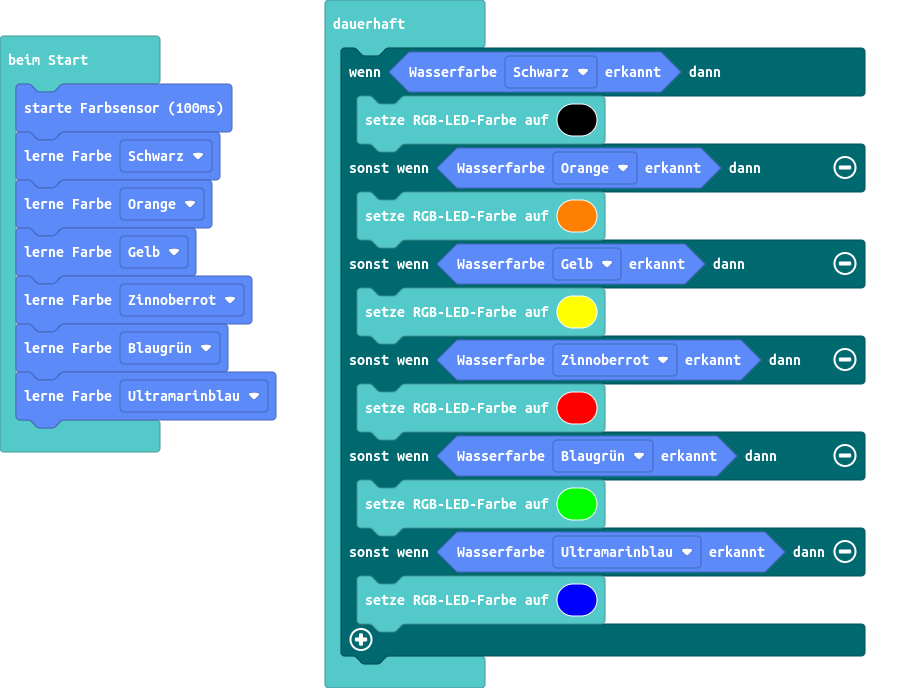
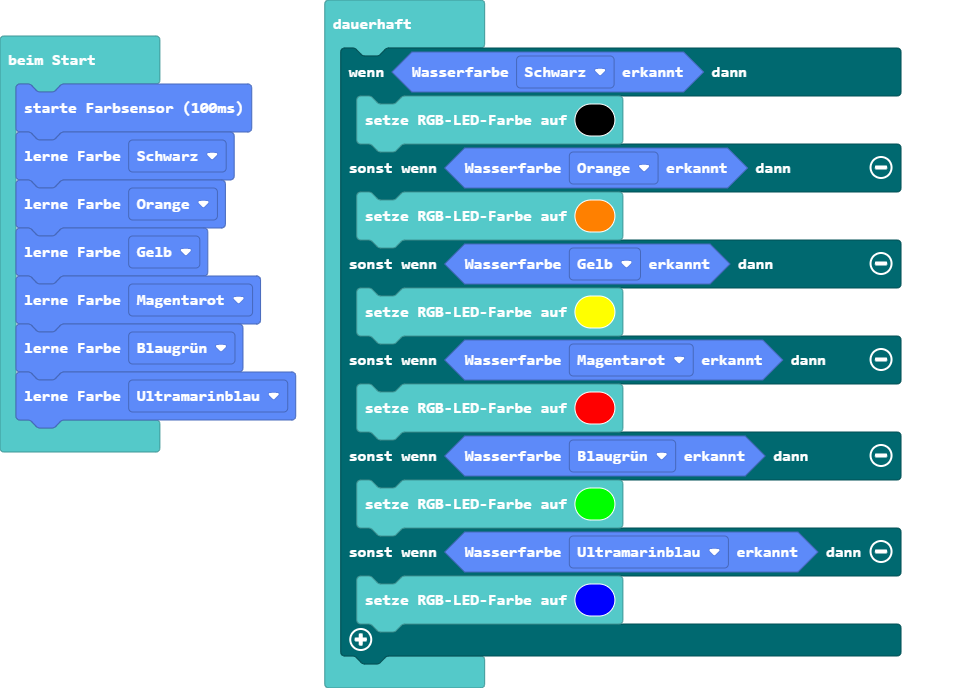
Aktualisiere main.blocks, main.ts

diff --git a/main.ts b/main.ts
@@ -2,7 +2,7 @@ TCS34725.start()
 TCS34725.LernFarbe(Wasserfarben.Schwarz)
 TCS34725.LernFarbe(Wasserfarben.Orange)
 TCS34725.LernFarbe(Wasserfarben.Gelb)
-TCS34725.LernFarbe(Wasserfarben.Zinnober)
+TCS34725.LernFarbe(Wasserfarben.Magenta)
 TCS34725.LernFarbe(Wasserfarben.Blaugr)
 TCS34725.LernFarbe(Wasserfarben.Ultramarin)
 basic.forever(function () {
@@ -12,7 +12,7 @@ basic.forever(function () {
         basic.setLedColor(0xff8000)
     } else if (TCS34725.Wasserfarbe(Wasserfarben.Gelb)) {
         basic.setLedColor(0xffff00)
-    } else if (TCS34725.Wasserfarbe(Wasserfarben.Zinnober)) {
+    } else if (TCS34725.Wasserfarbe(Wasserfarben.Magenta)) {
         basic.setLedColor(0xff0000)
     } else if (TCS34725.Wasserfarbe(Wasserfarben.Blaugr)) {
         basic.setLedColor(0x00ff00)
